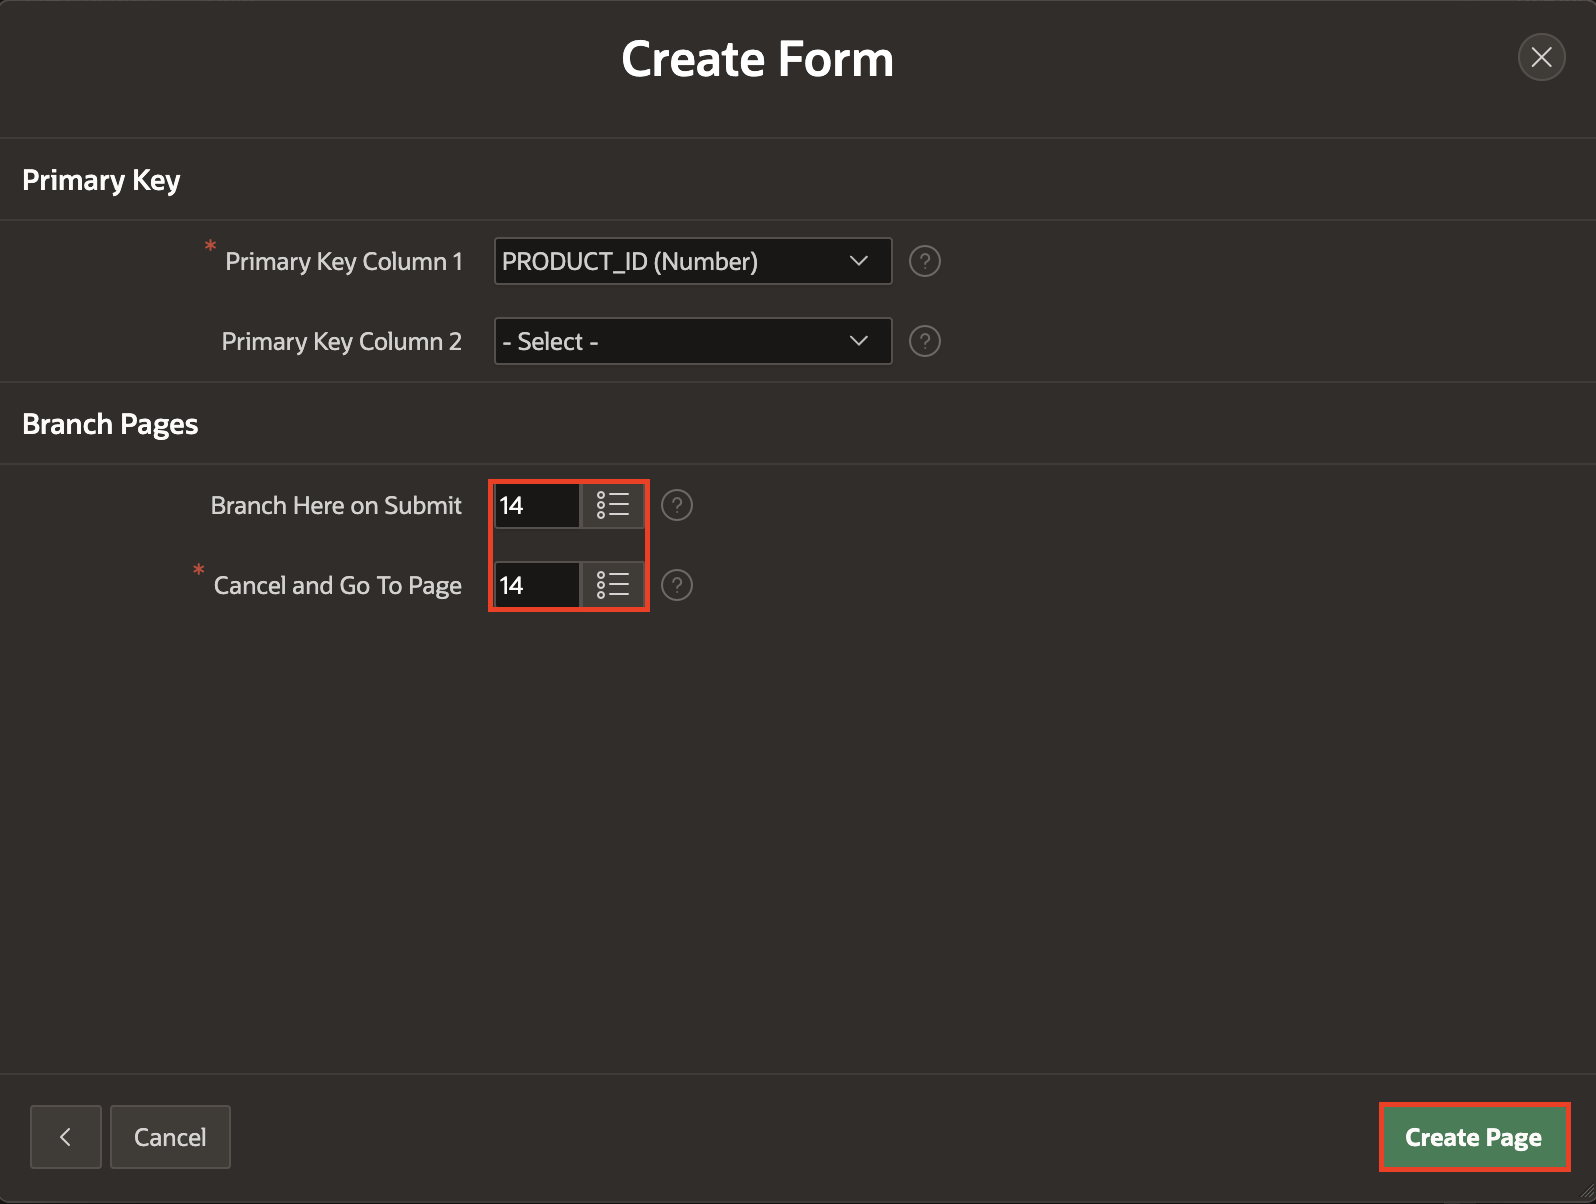
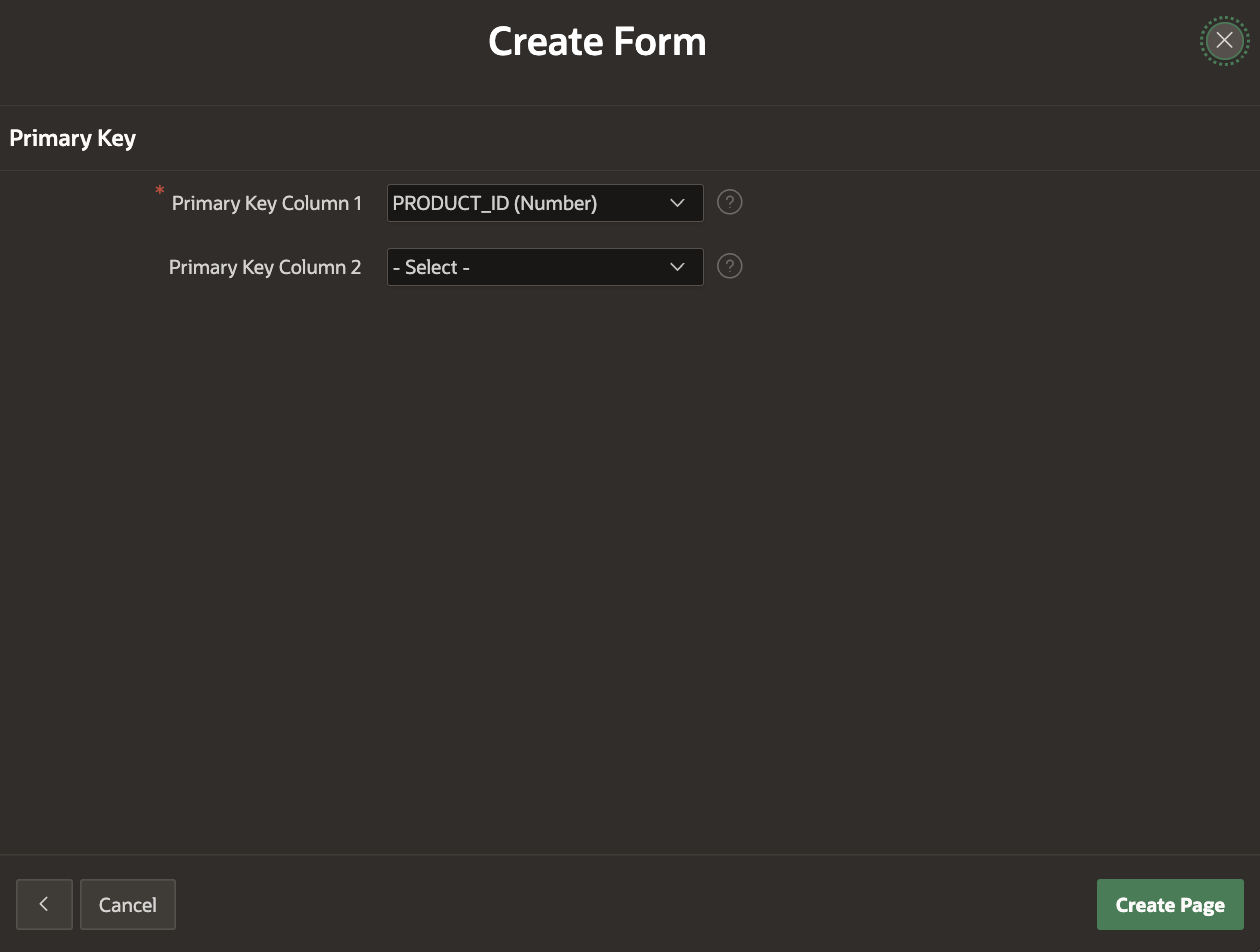
hol

diff --git a/apex-professional-hol12/1-improving-the-report-and-form.md b/apex-professional-hol12/1-improving-the-report-and-form.md
@@ -50,69 +50,9 @@ In this task, you will create a form that displays product details. This Form wi
 
     ![Define Form](./images/create-form3.png " ")
 
-5. For **Primary Key Column 1**, ensure the **PRODUCT_ID** is selected. Enter/select the following:
-
-    - Under Branch Pages:
-
-        - Branch Here on Submit: **14**
-
-        - Cancel and Go To Page: **14**
-
-        Click **Create Page**.
+5. For **Primary Key Column 1**, ensure the **PRODUCT_ID** is selected. Click **Create Page**.
 
     ![Define Primary key](./images/mp-create-page.png " ")
-
-## Task 2: Link a Report to a Form
-
-Once the product form is created, you need to link it to an existing interactive report. This allows users to easily edit product details directly from the report page.
-
-1. From **Page Designer** toolbar, navigate to page finder and select **14**.
-
-    ![Navigate To Manage Products](./images/navigate-to-mp2.png " ")
-
-2. In the **Rendering** tab, navigate to **RESET_REPORT** button and update the following:
-
-    - Under Identification:
-
-        - Button Name: **Create**
-
-        - Label: **Create**
-
-    - Layout > Slot: **Above Region [Legacy]**
-
-    - Under Appearance:
-
-        - Hot: Toggle **On**
-
-        - Template Options: Click **Use Template Defaults**
-
-            - Advanced > Width: **Stretch**
-
-        Click **OK**.
-
-    - Under Behavior:
-
-        - Action: **Redirect to Page in this Application**
-
-        - Target: Click **No Link Defined**
-
-            - Target > Page: **15**
-
-            - Set Items:
-
-           | Name             | Value        |
-           | ---------------- | ------------ |
-           | P15\_PRODUCT\_ID | #PRODUCT_ID# |
-
-            - Clear Cache: **15**
-
-            Click **OK**.
-
-    ![Enhance form3](images/create-btn.png " ")
-
-    ![Enhance form3](images/create-redirect.png " ")
-
-3. Click **Save**.
 
 ## Task 3: Enhance the Form
 

diff --git a/apex-professional-hol11/2-improving-products.md b/apex-professional-hol11/2-improving-products.md
@@ -179,7 +179,7 @@ You’ll add interactive actions to the cards, such as linking to detailed produ
 
 1. Navigate to **Search Results** (left pane).
 
-2. Right-click **Actions**, click **Create Action**.
+2. Right-click **Actions**, select **Create Action**.
 
     ![Create Action](./images/create-action1.png " ")
 
@@ -217,7 +217,7 @@ In this task, you will create two dynamic actions:
 
 1. Navigate to the **Dynamic Actions** tab (left pane).
 
-2. Right-click **Dialog Closed** and click **Create Dynamic Action**.
+2. Right-click **Dialog Closed** and select **Create Dynamic Action**.
 
      ![Create Dynamic Actions](./images/create-da1.png " ")
 
@@ -263,7 +263,7 @@ In this task, you will create two dynamic actions:
 
     ![Navigate to Refresh action](./images/create-da03.png " ")
 
-5. Create a second dynamic action. Right-click **Dialog Closed** and click **Create Dynamic Action**.
+5. Create a second dynamic action. Right-click **Dialog Closed** and select **Create Dynamic Action**.
 
     ![Create Dynamic Action2](./images/create-2-da1.png " ")
 
@@ -315,12 +315,12 @@ In this task, you will create two dynamic actions:
 
     ![Navigate to Refresh](./images/create-2-da3.png " ")
 
-8. Right-click **Execute JavaScript Code** and click **Create Opposite Action**.
+8. Right-click **Execute JavaScript Code** and select **Create Opposite Action**.
 
      ![Create Opposite Action](./images/create-2-opp-action.png " ")
 
 9. In the Property Editor, update the following:
-    - Settings > Code: Enter the following JavaScript Code:
+    - Settings > Code: Copy and Replace with the following JavaScript Code:
 
          ```
         <copy>

diff --git a/apex-professional-hol11/3-improve-classic-report.md b/apex-professional-hol11/3-improve-classic-report.md
@@ -77,11 +77,17 @@ In this lab, you will:
 
     - Identification > Type: **Link**
 
-    - Link > Target: Click **No Link Defined**
+    - Under Link:
+    
+        - Target: Click **No Link Defined**
 
-        - Page: **15** *{This page will be created in the next lab}*
+            - Page: **15** *{This page will be created in the next lab}*
 
-        - Set Items > Name: **P15\_PRODUCT\_ID**, Value: **#PRODUCT\_ID#**
+            - Set Items:
+        
+            | Name | Value |
+            | ---- | ---- |
+            | P15\_PRODUCT\_ID | #PRODUCT\_ID# |
 
         - Clear Cache: **15**
 
@@ -149,7 +155,9 @@ In this lab, you will:
 
             - Target > Page: **15**
 
-            - Set Items > Name: **P15\_PRODUCT\_ID** , Value: **#PRODUCT_ID#**
+            | Name | Value |
+            | ---- | ---- |
+            | P15\_PRODUCT\_ID | #PRODUCT\_ID# |
 
             - Clear Cache: **15**
 

diff --git a/apex-professional-hol13/introduction.md b/apex-professional-hol13/introduction.md
@@ -12,7 +12,7 @@ This combined lab will walk you through the process of creating search configura
 
 In the last hands-on workshop, you practiced how to create and customize a form and link it to the report.
 
-Estimated Time: 15 minutes
+Estimated Time: 20 minutes
 
 ### Objectives
 
